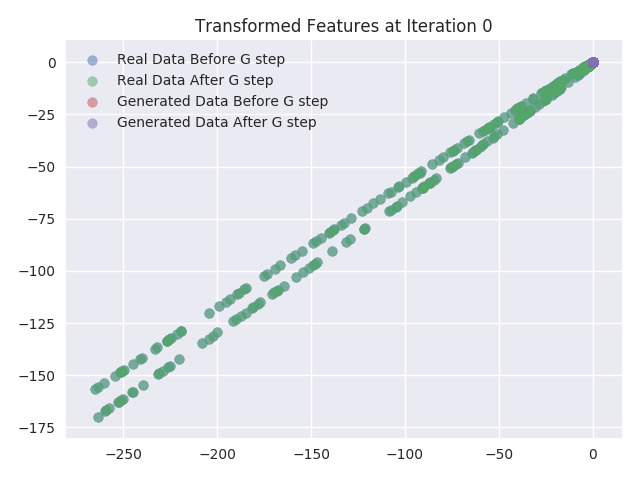
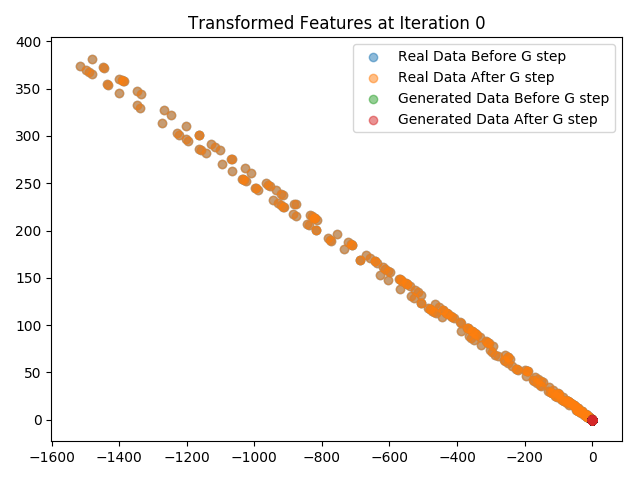
commenting out seaborn

diff --git a/simple_gan.py b/simple_gan.py
@@ -1,12 +1,12 @@
 import tensorflow as tf
 import numpy as np
-import seaborn as sb
+# import seaborn as sb
 import math
 
 import matplotlib
 matplotlib.use('Agg')
 import matplotlib.pyplot as plt
-sb.set()
+# sb.set()
 
 
 def get_y(x):
